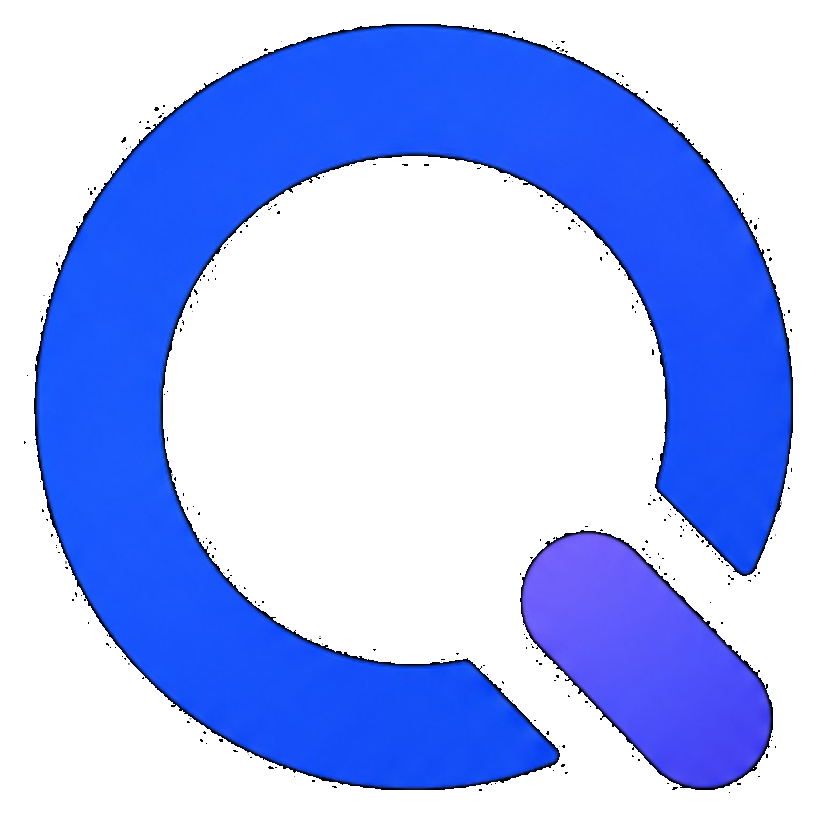
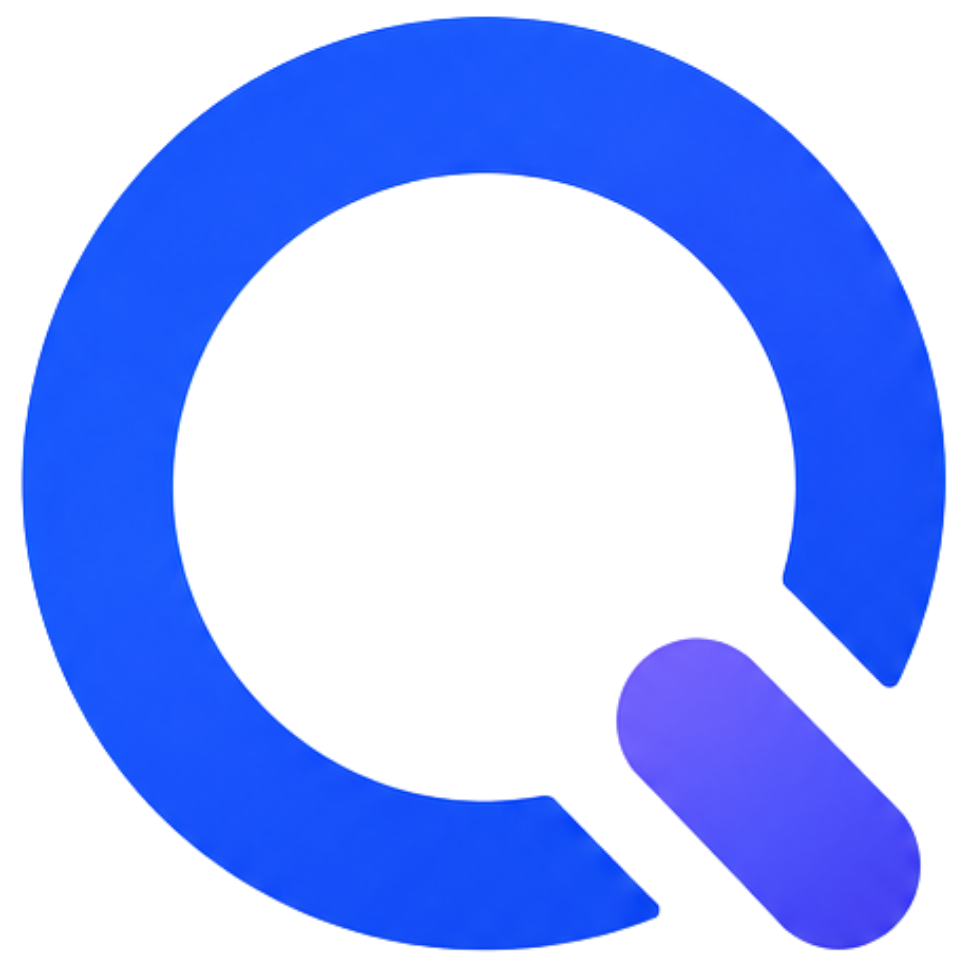
fix(landing): Q only in nav, WalQo wordmark only in hero
Use uploaded transparent logos; stop duplicating mark+wordmark in the same sections.

diff --git a/docs/index.html b/docs/index.html
@@ -53,24 +53,16 @@
     .site-nav-brand {
       display: flex;
       align-items: center;
-      gap: 10px;
       text-decoration: none;
       color: #e8ecf6;
-      font-weight: 800;
-      letter-spacing: -0.03em;
     }
     .site-nav-brand img.nav-mark {
-      width: 34px;
-      height: 34px;
+      width: 40px;
+      height: 40px;
       border-radius: 0;
       background: transparent;
       display: block;
       flex-shrink: 0;
-    }
-    .site-nav-brand img.nav-word {
-      height: 22px;
-      width: auto;
-      display: block;
     }
     .site-nav-links {
       display: flex;
@@ -149,28 +141,18 @@
 
     .hero-copy { max-width: 34rem; }
     .brand-lockup {
-      display: flex;
-      flex-direction: column;
-      align-items: flex-start;
-      gap: 10px;
+      display: block;
       margin-bottom: 22px;
       animation: riseIn .8s ease both;
     }
     .brand-lockup img.hero-wordmark {
-      width: min(340px, 88vw);
+      width: min(360px, 90vw);
       height: auto;
       display: block;
       filter: drop-shadow(0 14px 32px rgba(47,107,255,0.35));
     }
-    .brand-lockup img.hero-mark {
-      width: 72px;
-      height: 72px;
-      display: block;
-      filter: drop-shadow(0 12px 28px rgba(75,139,255,0.45));
-    }
     @media (min-width: 960px) {
-      .brand-lockup img.hero-mark { width: 84px; height: 84px; }
-      .brand-lockup img.hero-wordmark { width: 380px; }
+      .brand-lockup img.hero-wordmark { width: 420px; }
     }
 
     .hero h1 {
@@ -565,9 +547,8 @@
 </head>
 <body>
   <nav class="site-nav" aria-label="Principal">
-    <a class="site-nav-brand" href="#">
-      <img class="nav-mark" src="branding/walqo-mark.png" alt="" width="34" height="34" />
-      <img class="nav-word" src="branding/walqo-wordmark-light.png" alt="WalQo" height="22" />
+    <a class="site-nav-brand" href="#" aria-label="WalQo">
+      <img class="nav-mark" src="branding/walqo-mark.png" alt="WalQo" width="40" height="40" />
     </a>
     <div class="site-nav-links">
       <a class="nav-hide-sm" href="#producto">Producto</a>
@@ -582,8 +563,7 @@
     <div class="hero-inner">
       <div class="hero-copy">
         <div class="brand-lockup">
-          <img class="hero-mark" src="branding/walqo-mark.png" alt="" width="84" height="84" />
-          <img class="hero-wordmark" src="branding/walqo-wordmark-light.png" alt="WalQo" width="380" height="102" />
+          <img class="hero-wordmark" src="branding/walqo-wordmark-light.png" alt="WalQo" width="420" height="112" />
         </div>
 
         <h1>
